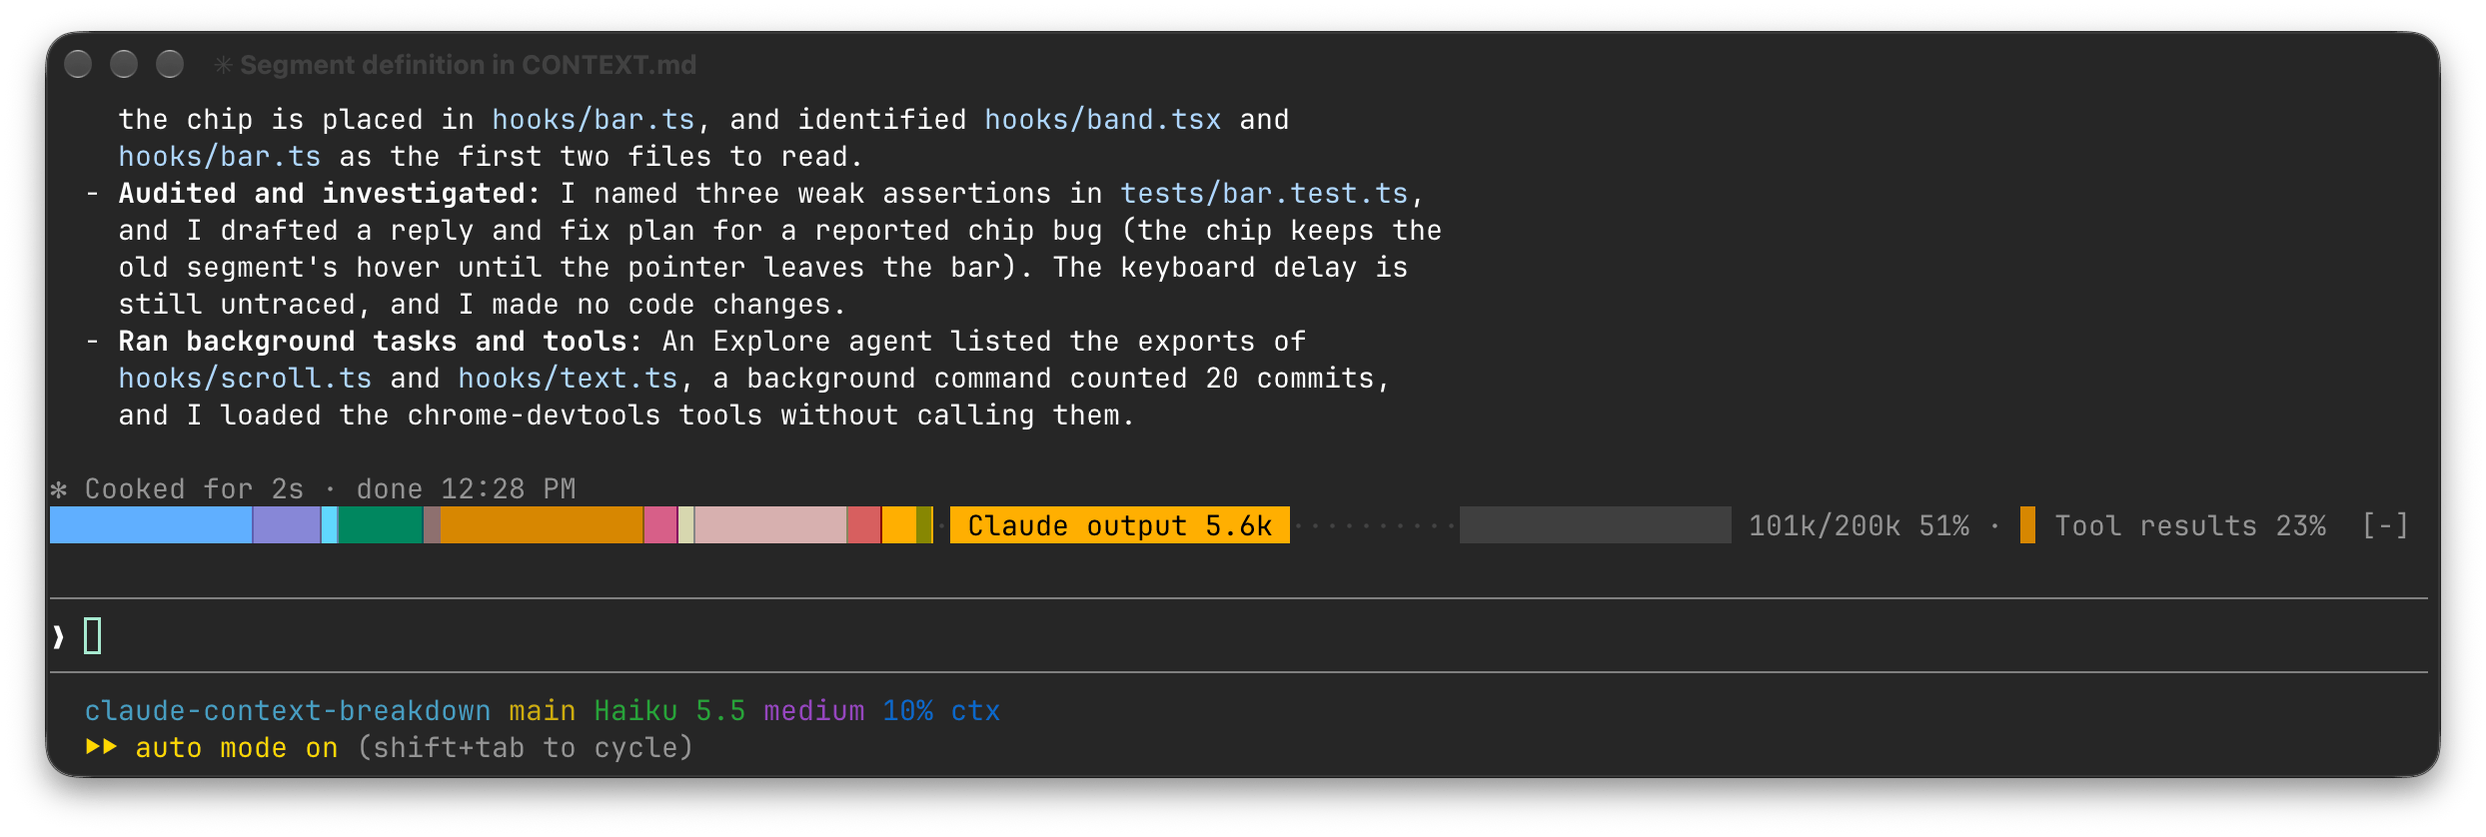
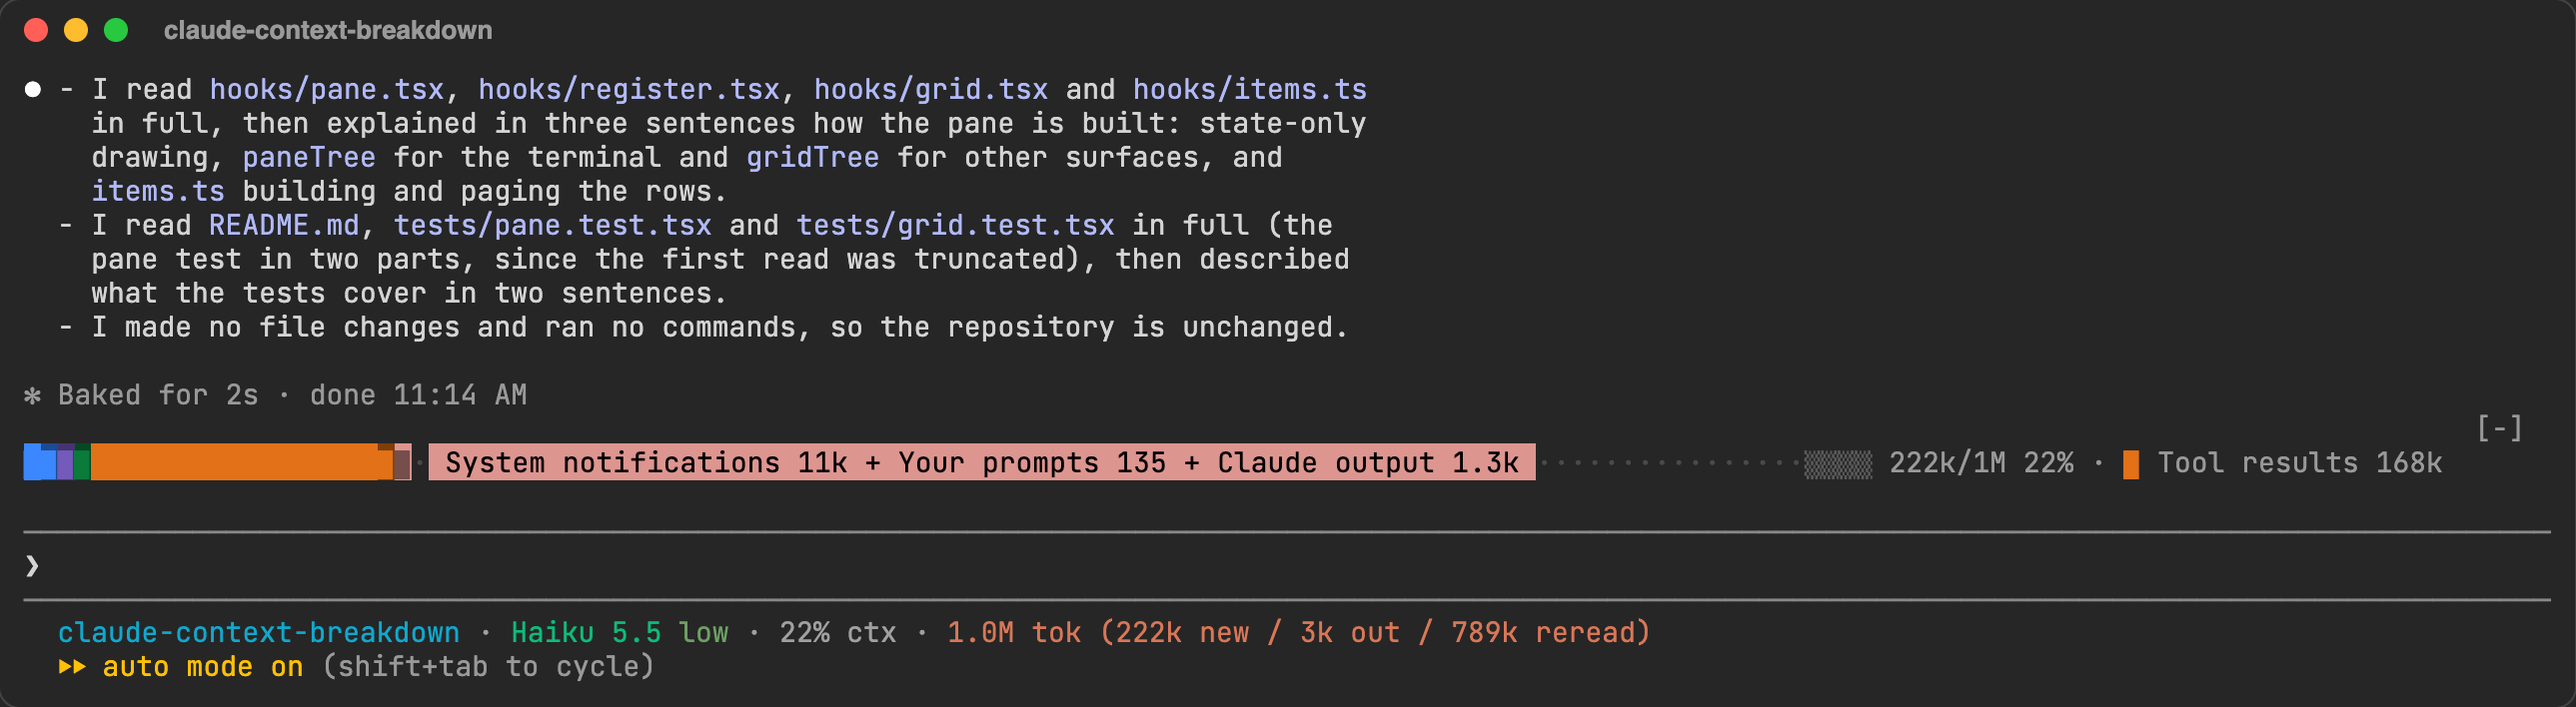
Retake the README pictures at 0.11.1 (#27)
* Let tui.sh start in a given folder, in true colour, past the new trust question

--cwd starts the session in a folder such as a fresh clone, for the
README pictures. --truecolor hides tmux from Claude Code, which sends
256 colours inside tmux. Claude Code 2.1.332 puts "No, exit" first in
the trust question for a folder with files, so start moves to Yes.

* Retake the README pictures at 0.11.1

The old pictures predate 0.11.0: the legend gave a percent, and the
pane lacked the column added and its note. The new ones come from one
session of 0.11.1 in Claude Code 2.1.332 with a 1M window.

* Resolve --cwd without CDPATH

Codex review [P2]: with CDPATH set, cd printed the folder and the
script passed two lines to tmux as one path.

---------

Changed region(s): [[0.0, 0.0, 1.0, 1.0]]

diff --git a/.agents/skills/verify-context-breakdown/SKILL.md b/.agents/skills/verify-context-breakdown/SKILL.md
@@ -35,11 +35,13 @@ claude plugin validate . && claude plugin test . && npx --yes -p typescript@5.9.
 ### Launch
 
 ```sh
-scripts/tui.sh start <run> [--worktree | --ref <git-ref>] [--other] [--size 110x24] [--model haiku]
+scripts/tui.sh start <run> [--worktree | --ref <git-ref>] [--other] [--size 110x24] [--model haiku] [--cwd <dir>] [--truecolor]
 ```
 
 - `<run>`: a short name, `[a-z0-9-]`, new for each launch: `start` refuses a name whose evidence folder exists, so old captures never pair with a new build. Each run is isolated: its own tmux server (`-L vctx-<hash of the checkout path>-<run>`), its own frozen copy of the mod in a temp folder, its own empty working folder. Several runs can go side by side (for example `before` with `--ref origin/main` and `after` with `--worktree`).
 - `--worktree` (default) copies the checkout as it is, uncommitted edits included. `--ref` copies a commit with `git archive`.
+- `--cwd` starts the session in that folder in place of the empty one, for example a fresh clone of the repository for the README pictures. `start` accepts the folder-trust question for that folder too, so name only a folder you made for the run. `stop` does not delete it.
+- `--truecolor` hides tmux from Claude Code, so it sends the theme's 24-bit colours in place of 256 colours. Use it for pictures; the checks do not need it.
 - `--other` also loads `fixtures/othermod`, a probe mod that draws one band row (`OTHER MOD ROW · this row comes first`). Use it for the band order.
 - Ready means: the `❯` prompt and exactly one bar line show. The bar line matches `[0-9.]+[kM]?/[0-9.]+[kM] +<?[0-9]+%` (for example `69k/1M 7%`, or `4k/1M <1%`). `start` waits about 60 s, accepts the folder-trust question for its own scratch folder, and prints `ready: run <run>, <build>`. On a timeout it prints the screen; read it, then `stop`.
 - `--plugin-dir` takes the place of the installed copy for this session, so the installed copy does not draw a second bar. `doctor` checks this.

diff --git a/README.md b/README.md
@@ -8,7 +8,7 @@ Claude Code's own `/context` command shows a similar report, but only when you a
 
 ![A Claude Code session in a terminal. The bar is above the prompt. The pane beside the conversation lists every segment with its size.](docs/img/overview.png)
 
-The pictures in this file show Claude Code in Ghostty, in sessions with a 200k window: version 2.1.328, and version 2.1.327 for the picture of the bar. They were taken before version 0.11.0 of the mod: there the legend right of the total gives a percent of what is used (`Tool results 23%`). The legend now gives the segment's tokens (`Tool results 114k`).
+The pictures in this file show version 0.11.1 of the mod in Claude Code 2.1.332, in a terminal session with a 1M window.
 
 > Status: early version. The mod uses Claude Code's mods API, which is early access and can change between releases.
 
@@ -66,7 +66,7 @@ A category whose name starts with "Slash command" also goes to Skills list and c
 
 ### Reading the bar
 
-![The bar with the pointer on its last segment. A chip beside the segment reads "Claude output 5.6k".](docs/img/bar.png)
+![The bar with the pointer on its last cell, which three small segments share. A chip beside the cell reads "System notifications 11k + Your prompts 135 + Claude output 1.3k".](docs/img/bar.png)
 
 - A thin gap separates each segment from the next. The compaction summary has a texture (`▓`) in place of a plain colour, and no gap after it.
 - Right of the bar is the total, then the largest conversation segment with its tokens: `364k/1M 36% · ▉ Tool results 114k`. The percent of the total is rounded to the nearest whole number, as Claude Code's status line rounds it. It shows 99% until the window is full, and `<1%` for a window that holds less than half a percent.

diff --git a/PRODUCT.md b/PRODUCT.md
@@ -79,7 +79,7 @@ Not decided: when the version becomes 1.0.0. That step is the maintainer's decis
 
 ## Evidence on Hand
 
-- Four pictures of real sessions (Claude Code 2.1.328, and 2.1.327 for the bar; Ghostty, 200k window): [docs/img/overview.png](docs/img/overview.png), [docs/img/bar.png](docs/img/bar.png), [docs/img/pane-items.png](docs/img/pane-items.png), [docs/img/pane-content.png](docs/img/pane-content.png). They predate 0.11.0: the bar's legend in them gives a percent of what is used, not tokens.
+- Four pictures of one real session (mod 0.11.1, Claude Code 2.1.332, a terminal, 1M window): [docs/img/overview.png](docs/img/overview.png), [docs/img/bar.png](docs/img/bar.png), [docs/img/pane-items.png](docs/img/pane-items.png), [docs/img/pane-content.png](docs/img/pane-content.png).
 - [README.md](README.md): the behaviour of the bar and the pane, the keys per surface, how the numbers are made, and the limits.
 - [docs/adr/0001-build-as-a-mod-on-the-early-access-api.md](docs/adr/0001-build-as-a-mod-on-the-early-access-api.md): the options that were rejected, with reasons.
 - Tests under `tests/`, with golden end-to-end journeys under `tests/e2e/` and their description in [docs/e2e.md](docs/e2e.md).
